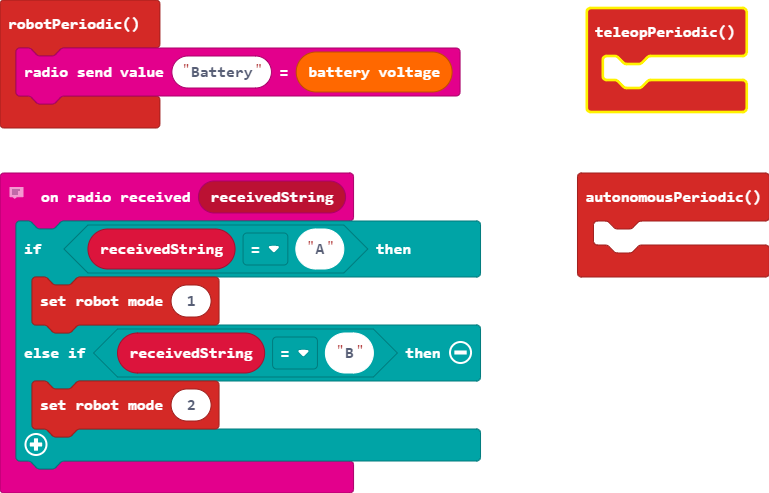
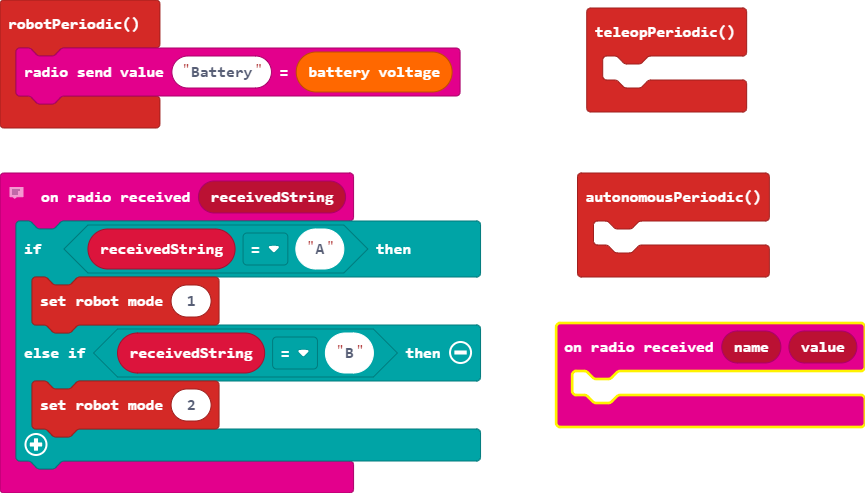
Update main.blocks, main.ts

diff --git a/main.ts b/main.ts
@@ -19,6 +19,9 @@ radio.onReceivedString(function (receivedString) {
         Oscats.setRobotMode(2)
     }
 })
+radio.onReceivedValue(function (name, value) {
+	
+})
 Oscats.autonomousPeriodic(function () {
 	
 })
